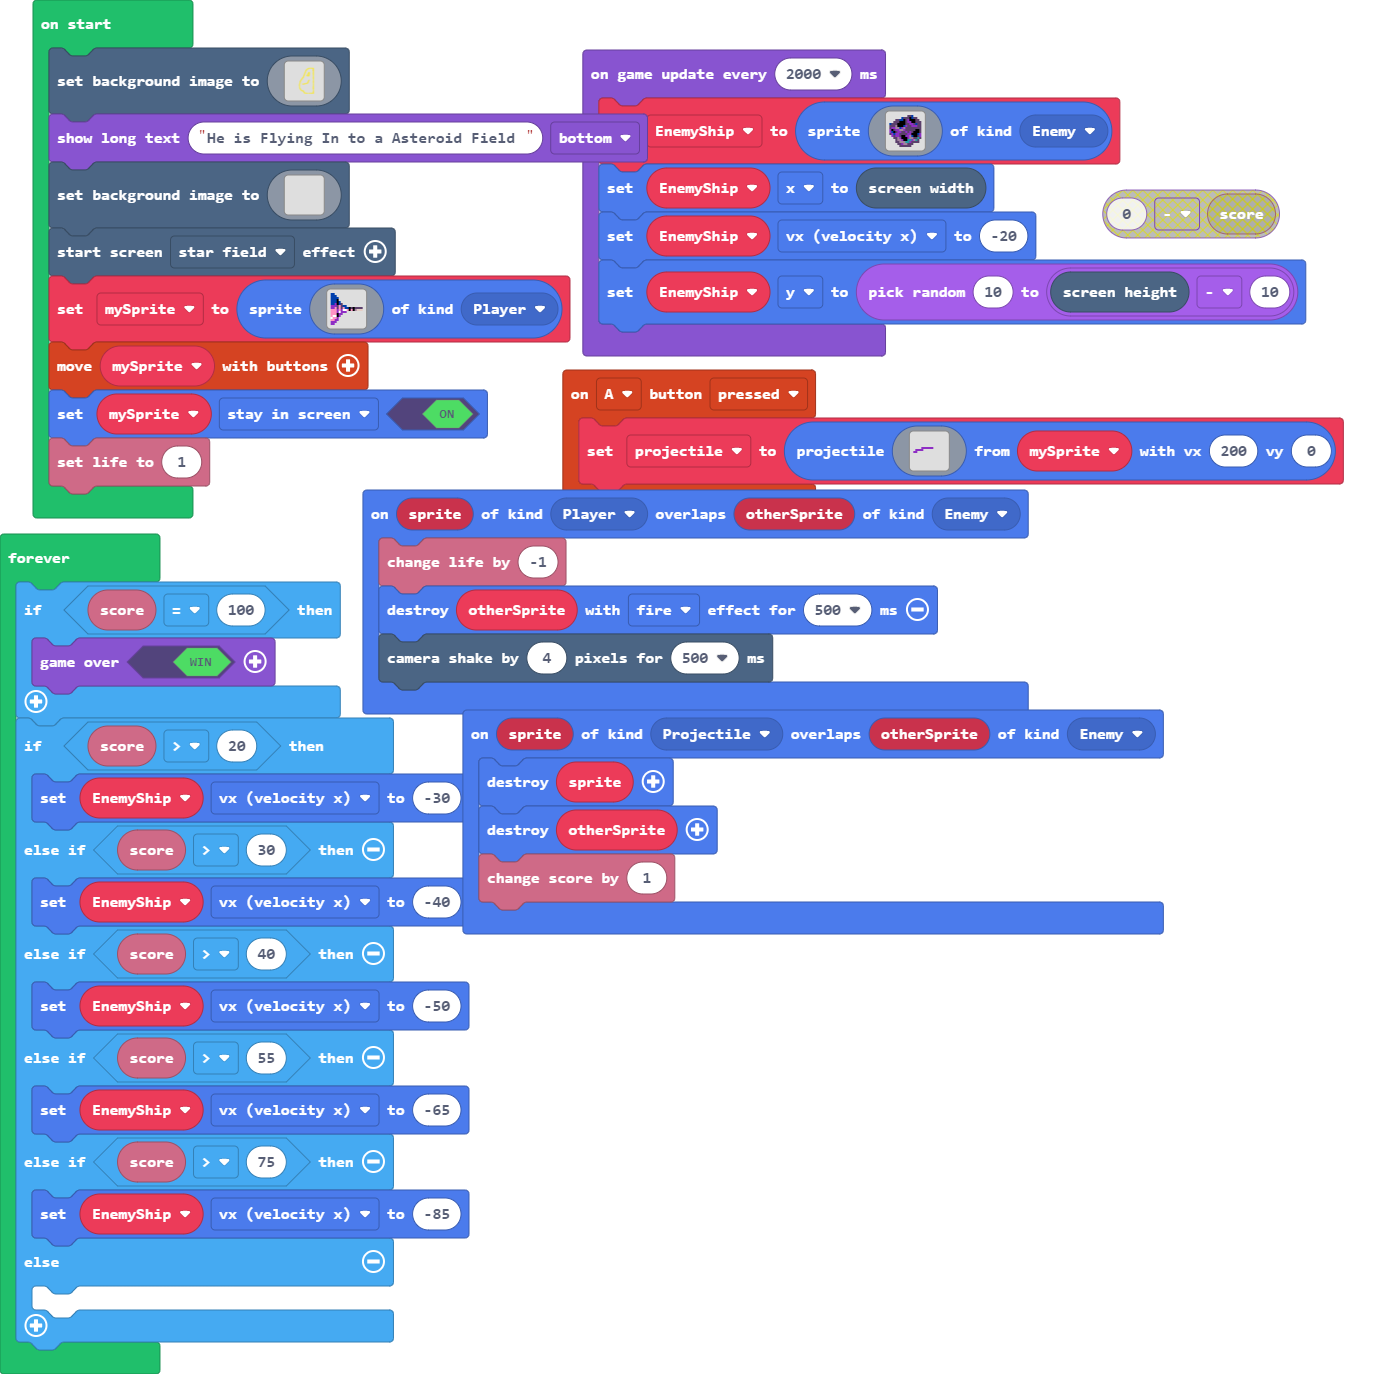
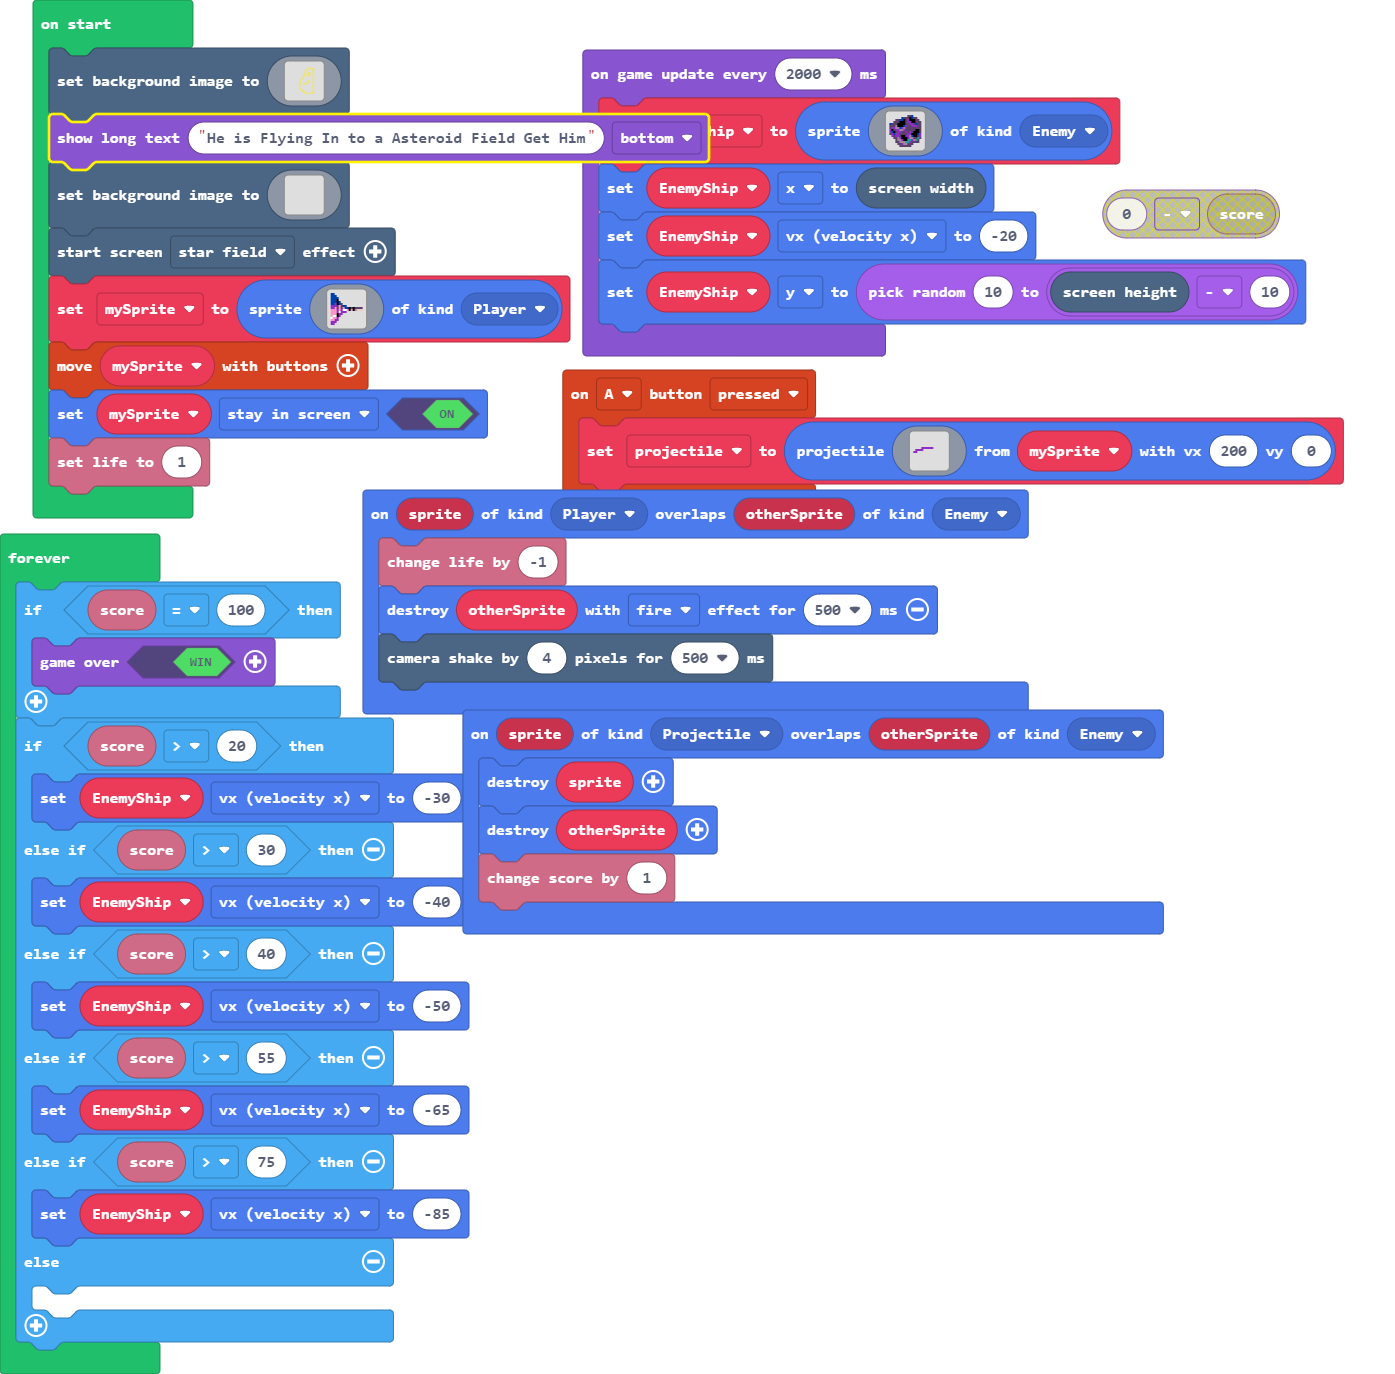
Update main.blocks, main.ts

Changed region(s): [[0.3699, 0.0611, 0.524, 0.1223], [0.0308, 0.0611, 0.0616, 0.1223]]

diff --git a/main.ts b/main.ts
@@ -153,7 +153,7 @@ scene.setBackgroundImage(img`
     ...........................................................................555555555555555555555555555555555555555555555..............................
     ...............................................................................55555555555555555555555555555555555555555..............................
     `)
-game.showLongText("He is Flying In to a Asteroid Field ", DialogLayout.Bottom)
+game.showLongText("He is Flying In to a Asteroid Field Get Him", DialogLayout.Bottom)
 scene.setBackgroundImage(img`
     ................................................................................................................................................................
     ................................................................................................................................................................
